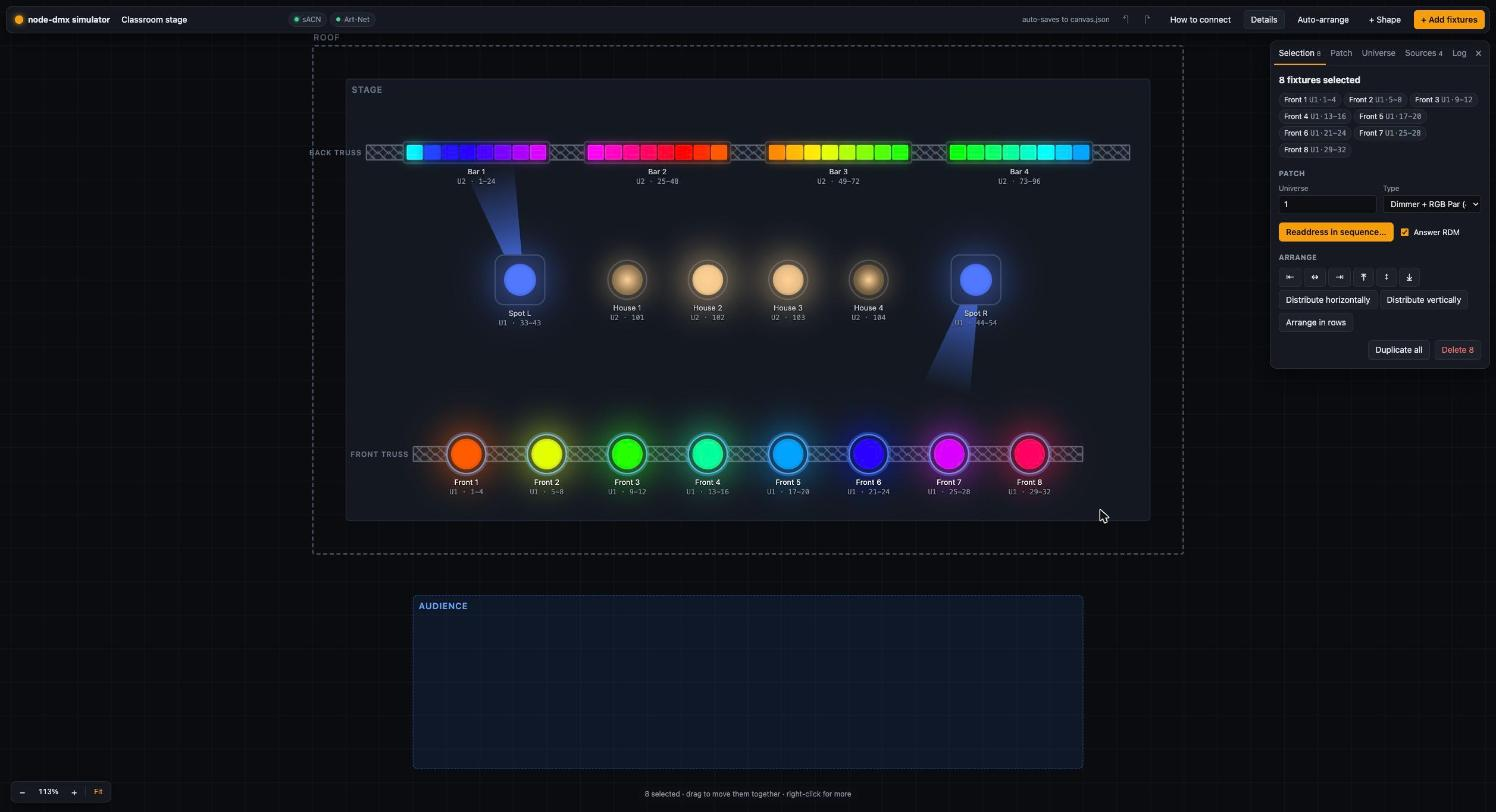
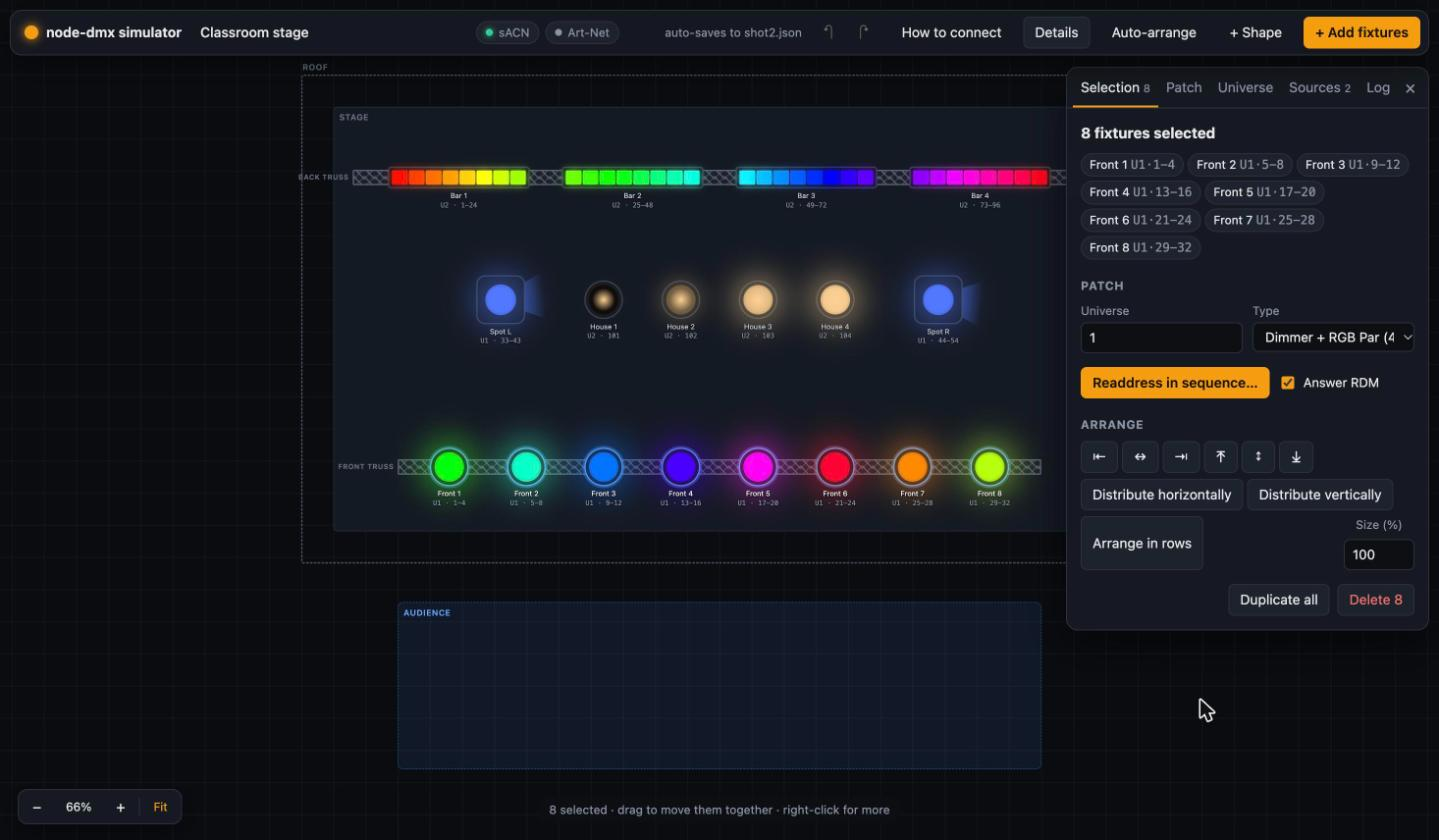
docs: add a demo GIF and a new screenshot to the README
The GIF shows live sACN, box-selecting fixtures, resizing a moving head,
undo from the right-click menu and zooming. The screenshot moves to the
"Using the web UI" section.

diff --git a/README.md b/README.md
@@ -5,7 +5,7 @@ fixtures on your network: it receives **sACN** and **Art-Net**, answers
 **Art-Net discovery** and **RDM**, and shows what your lights would do in a
 browser.
 
-![Classroom rig on the endless canvas: roof, stage, trusses and audience area as shapes, eight front pars selected with the details panel open](docs/screenshot.jpg)
+![The simulator in a browser: LED bars, pars and moving heads lit by sACN; selecting the front pars, resizing a moving head with its corner handle, undo from the right-click menu, zooming in and fitting the view](docs/demo.gif)
 
 - Lay out a virtual stage: pars, LED bars, pixel strips, moving heads, dimmers
 - Drag fixtures around and change their patch in the browser. Select several to move, align, readdress or delete them together; right-click for more. Undo with ⌘Z / Ctrl+Z. Edits are saved to a JSON rig file
@@ -92,6 +92,8 @@ Setting `DMX_START_ADDRESS` or `DEVICE_LABEL` over RDM changes the fixture in
 the UI and in your rig file.
 
 ## Using the web UI
+
+![Classroom rig with the eight front pars selected and the details panel open](docs/screenshot.jpg)
 
 The canvas fills the window and has no edges: put fixtures and shapes anywhere.
 The top bar, the details panel and the zoom controls float on top of it.
